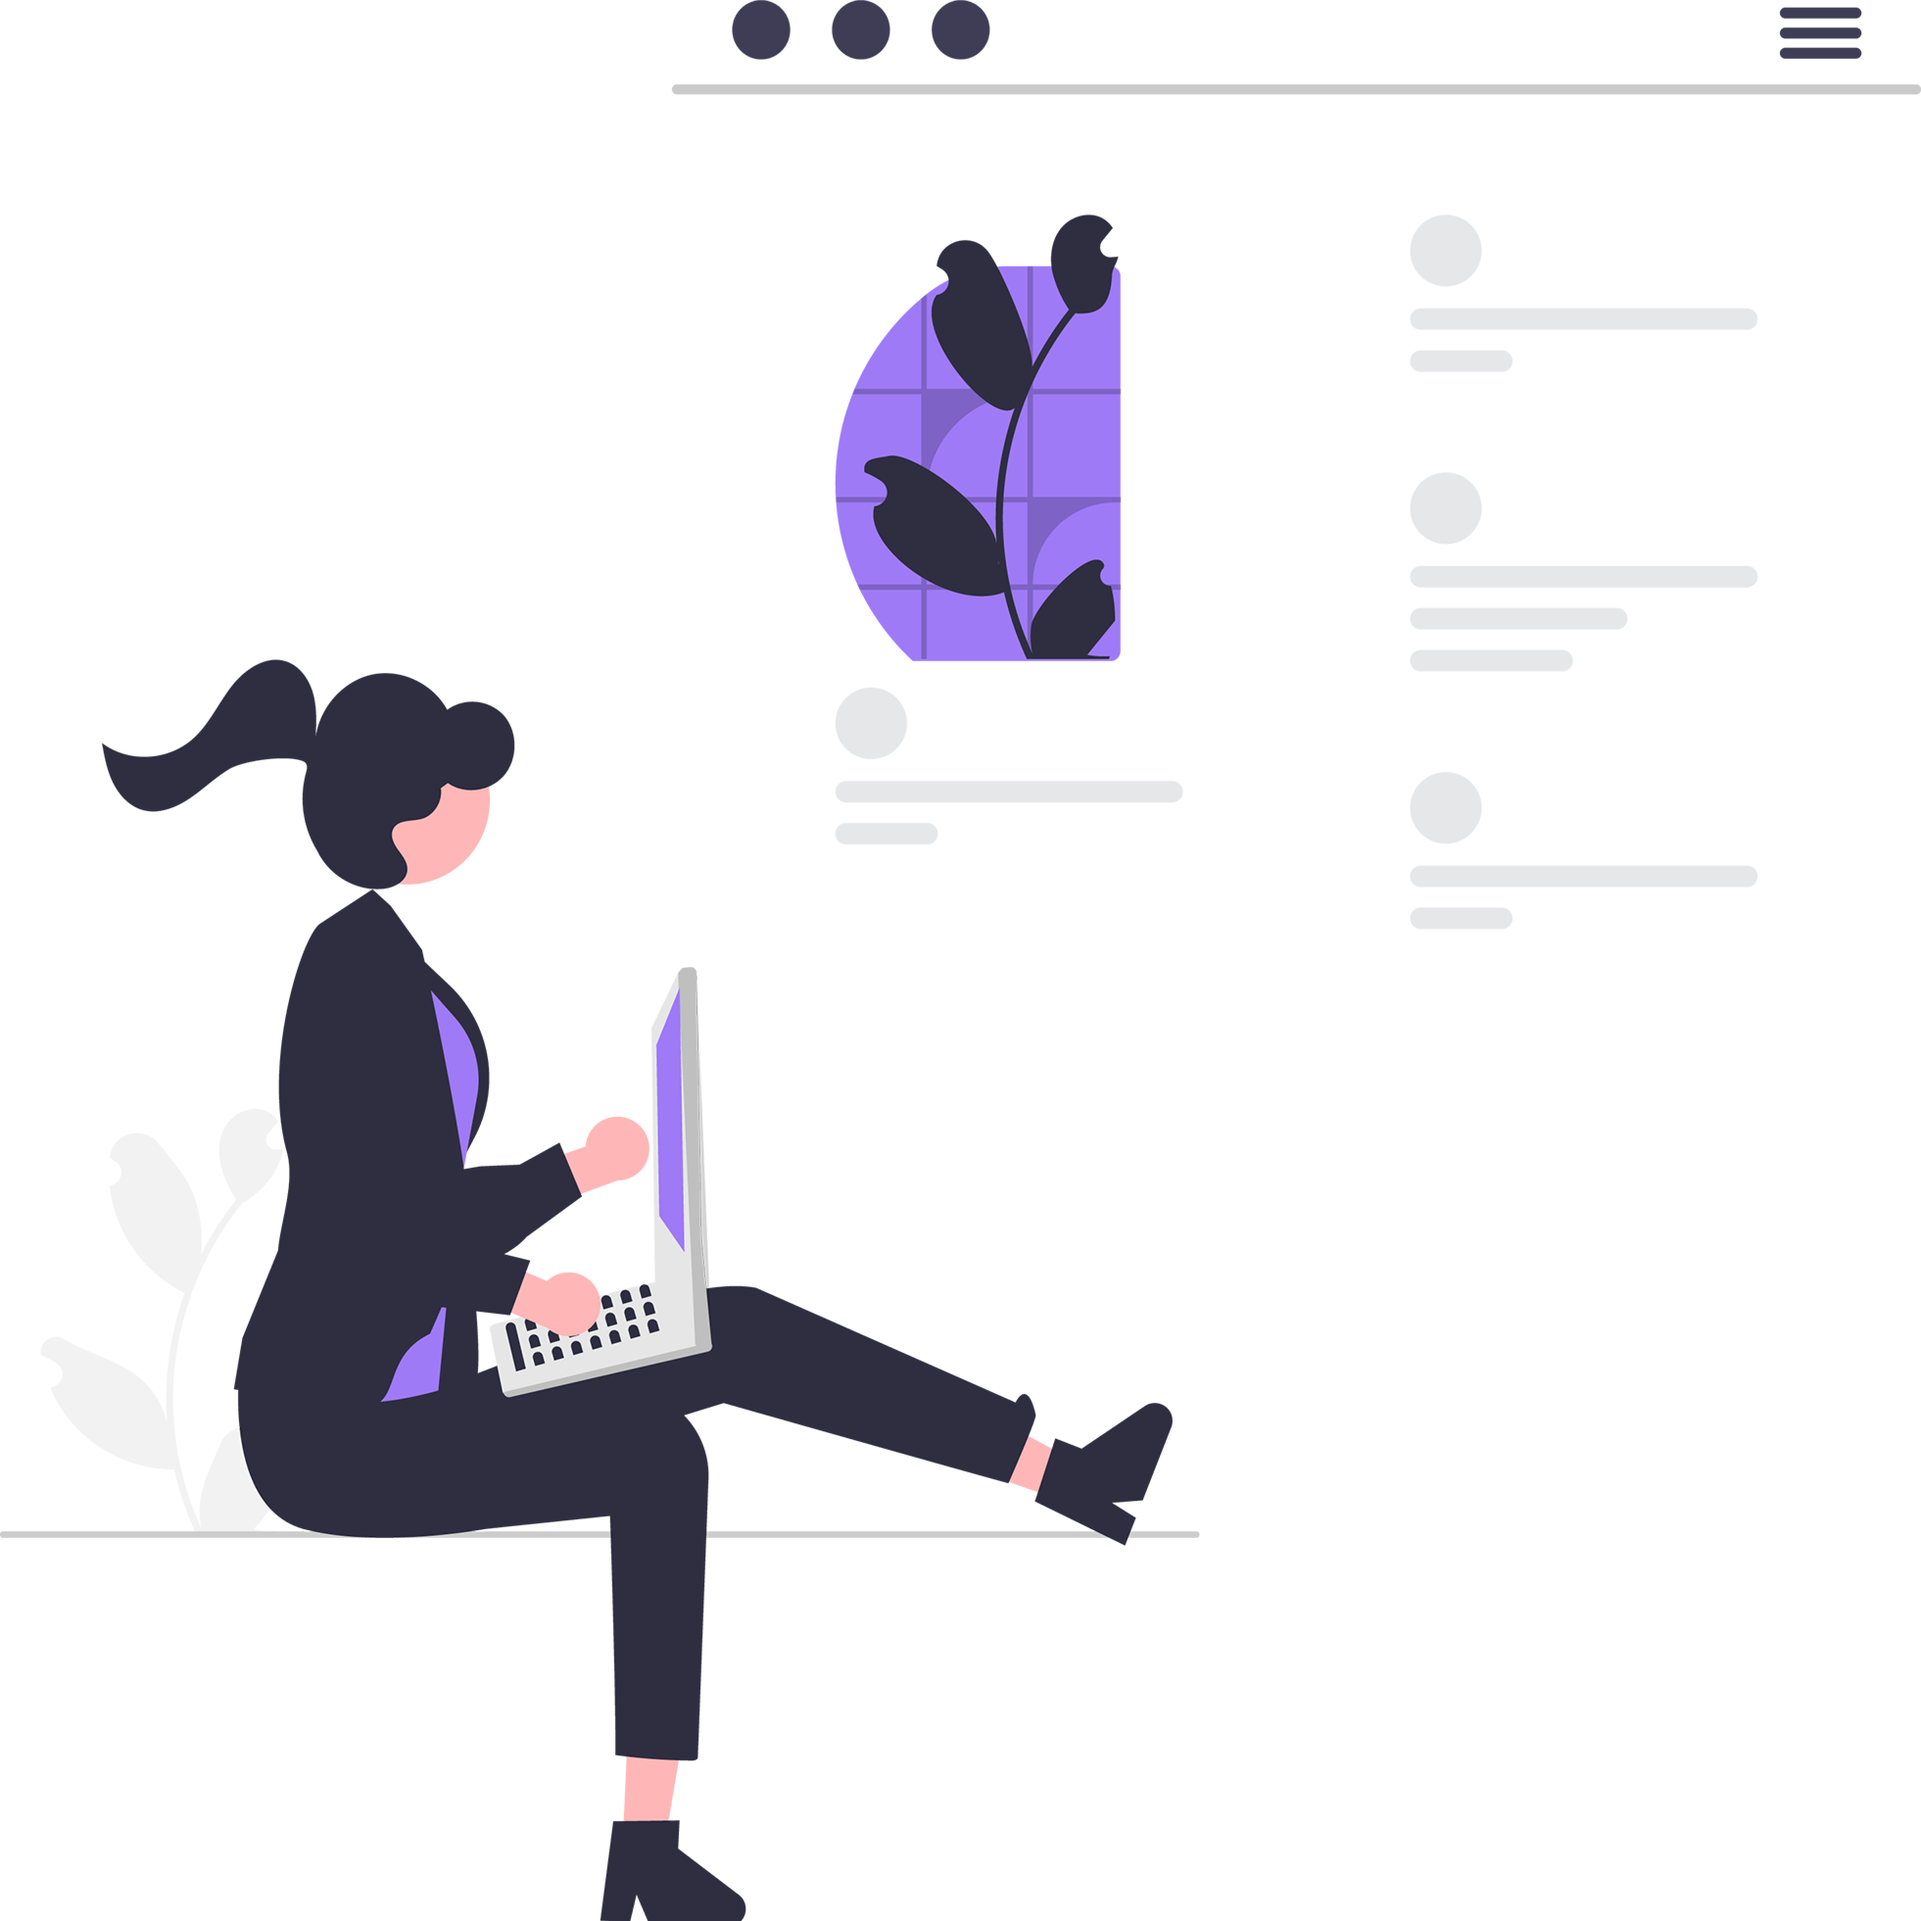
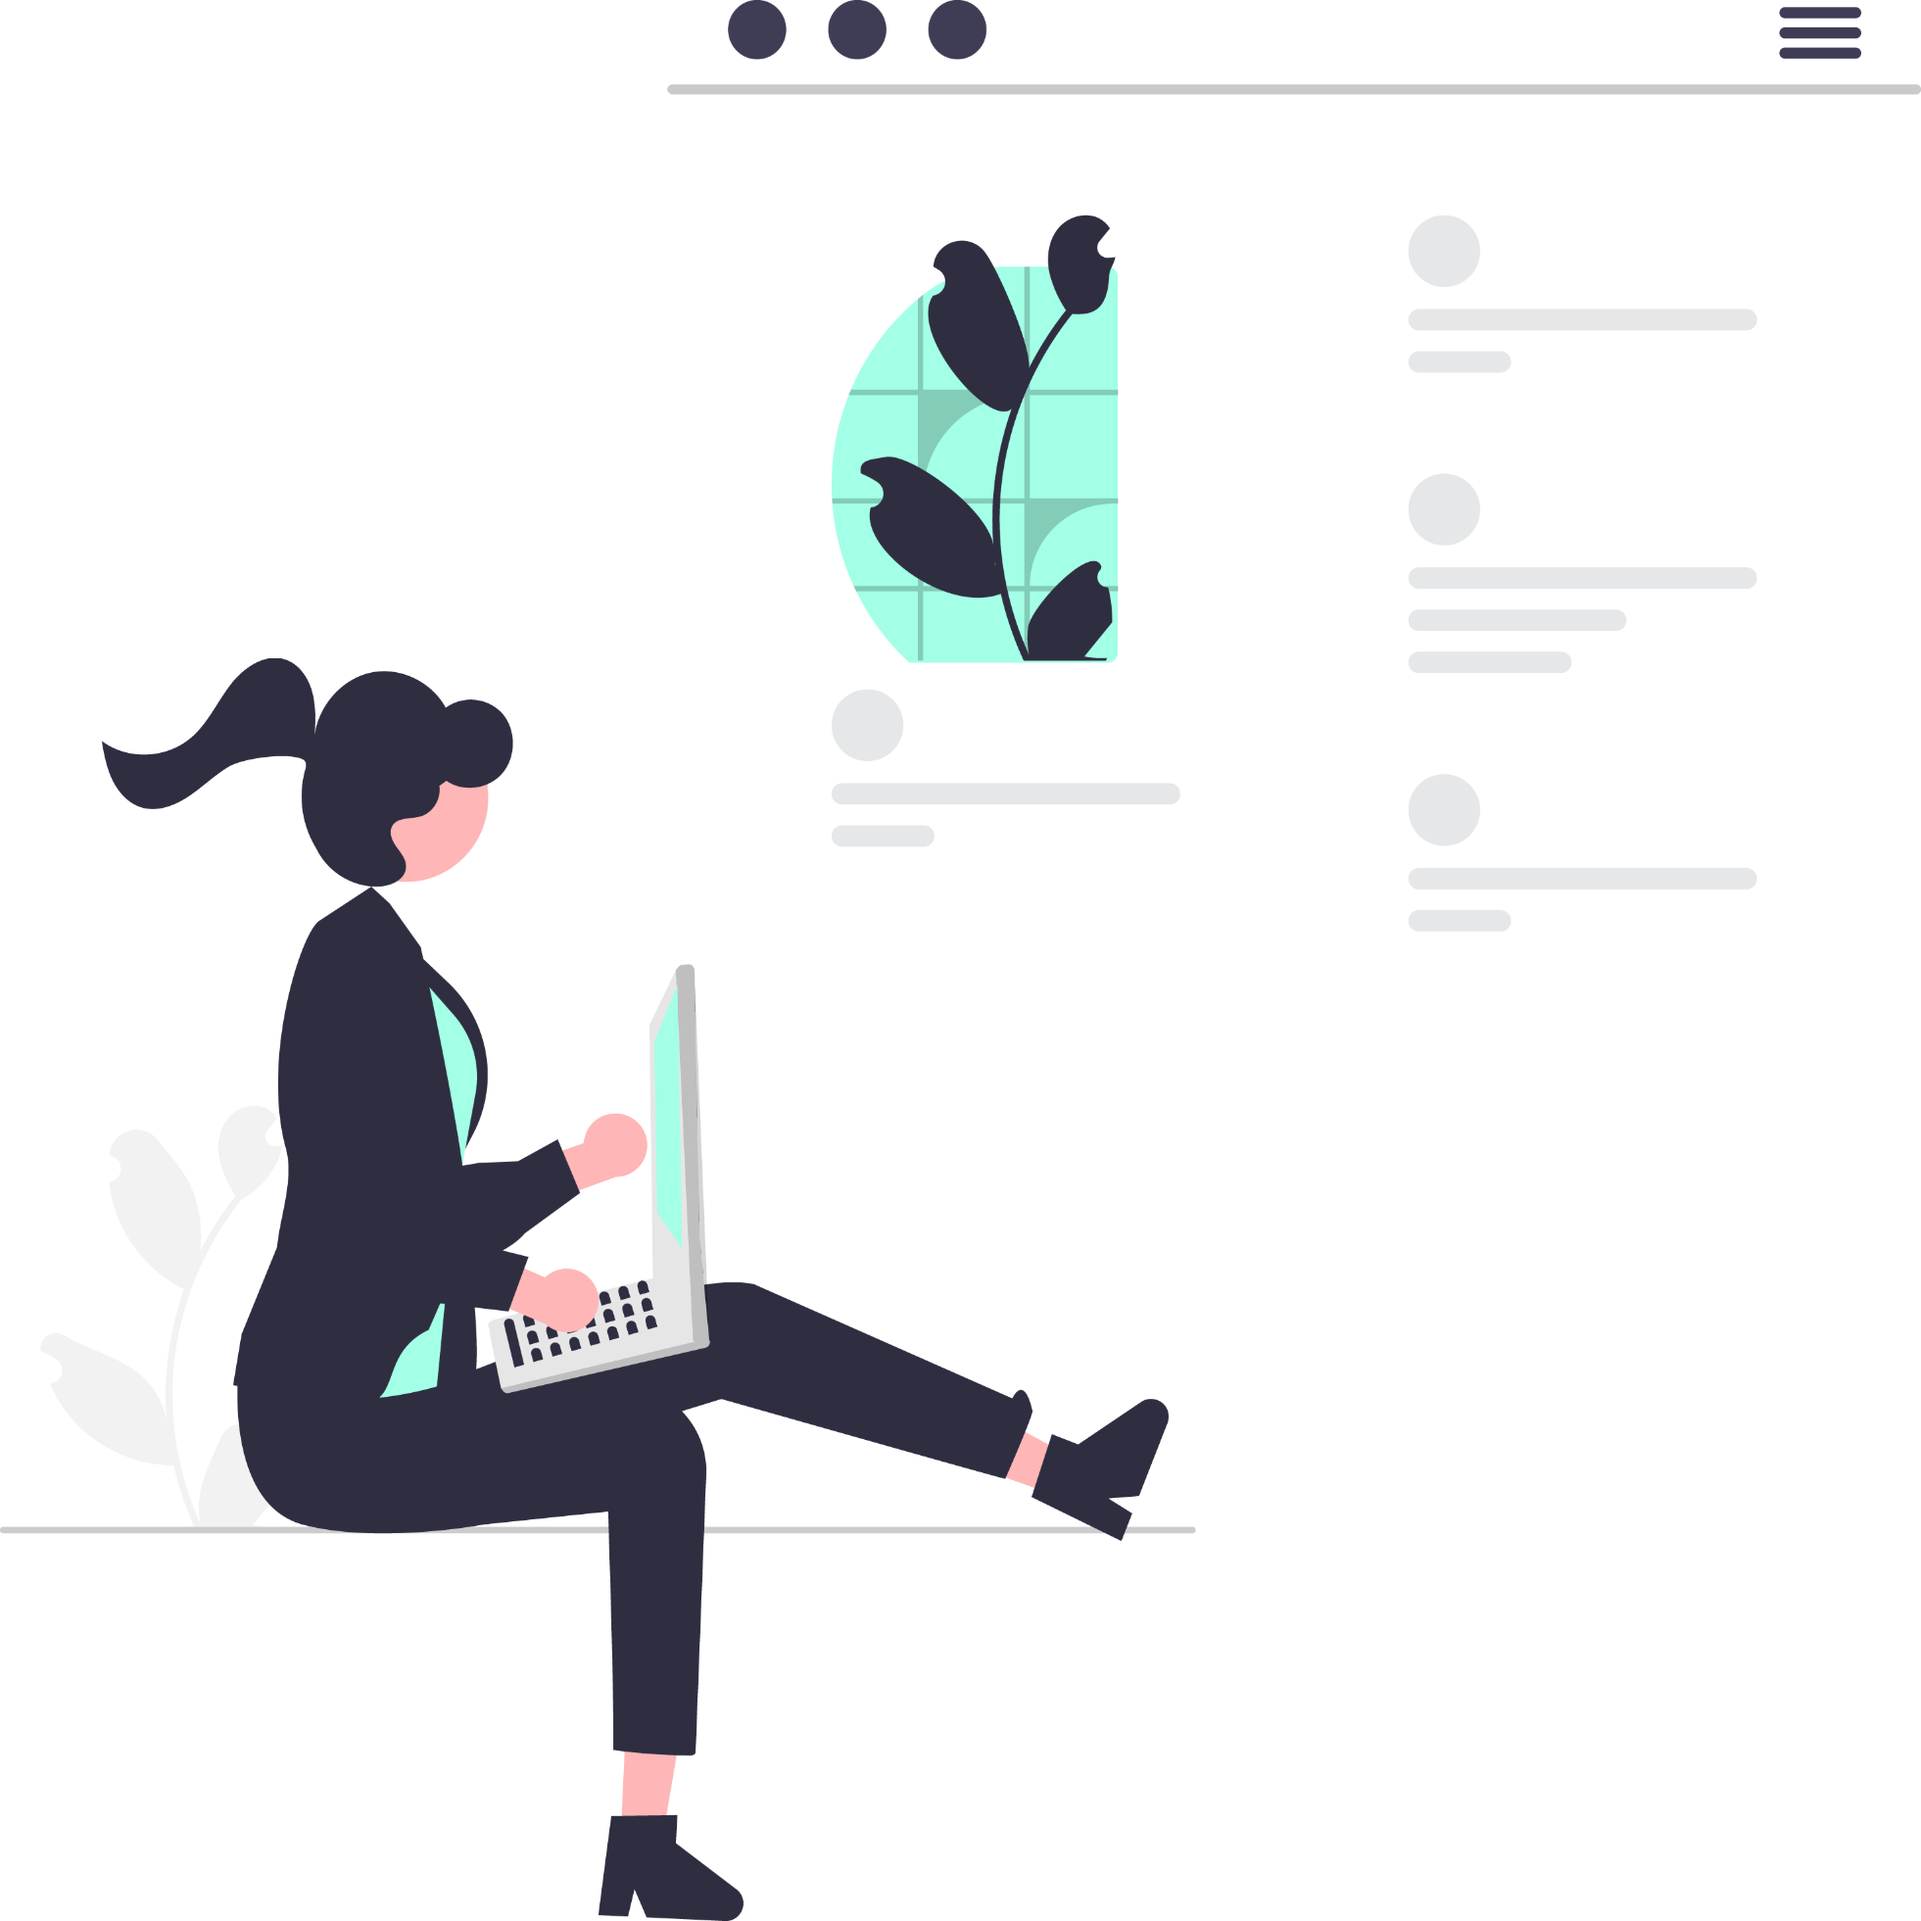
Finished contact page and changed about image

diff --git a/contact.html b/contact.html
@@ -55,9 +55,7 @@
 
       <div class="col-md-6">
         <h1 class="page-main-heading mb-5">
-          Contact
-          <br />
-          <span class="important-heading-2">Me</span>
+          Contact <span class="important-heading-2">Me</span>
         </h1>
 
         <h2 class="main-heading mb-3">
@@ -93,7 +91,7 @@
     <div class="text-center margin-b">
       <hr class="footer-line mb-4" />
       <h2 class="footer-logo mb-3">Samin Pashaei</h2>
-
+    
       <a href="https://github.com/SaminPashaei" class="footer-link"><i class="fa-brands fa-square-github"></i></a>
       <a href="https://www.linkedin.com/in/samin-pashaei-728181260" class="footer-link"><i
           class="fa-brands fa-linkedin"></i></a>

diff --git a/css/style.css b/css/style.css
@@ -294,6 +294,13 @@ body {
   font-size: 22px;
 }
 
+/* ---------- Contact Content ---------- */
+.contact-icon {
+  color: var(--main-font-color);
+  font-size: 30px;
+  padding-right: 10px;
+}
+
 /* ---------- Work Inquiry ---------- */
 .inquiry-container {
   background-color: var(--secondary-op-color);
@@ -390,12 +397,7 @@ body {
   top: -200px;
 }
 
-/* ---------- Contact Content ---------- */
-.contact-icon {
-  color: var(--main-font-color);
-  font-size: 35px;
-  padding: 10px 10px 10px 0;
-}
+
 
 /* ---------- Responsive ---------- */
 @media (width >= 768px) {
